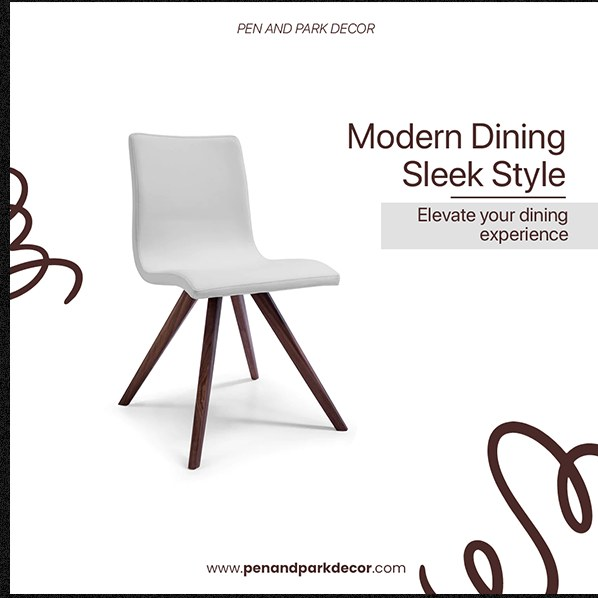
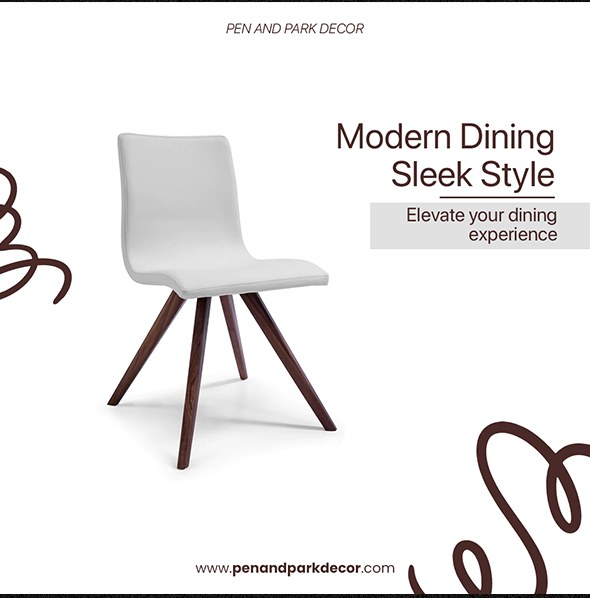
**Social Media Design — New Scroll-Driven Gallery — initial update** - The section now closely follows your reference video: as you scroll, a vertical list of project titles appears on the left, highlighting the current project in orange and sliding it right — a large, full-size image or video displ
Can you please test this preview and confirm if everything works smoothly? If any issues remain, I can continue with a deeper investigation and comprehensive testing.

Emergent-Commit-Key: 0c5b5b362e853085a8be8ca6203a84d60bfc02149cf97ac8073cc69e6c5fcb3d

diff --git a/frontend/src/components/Work.jsx b/frontend/src/components/Work.jsx
@@ -1,89 +1,136 @@
-import { useRef } from "react";
+import { useRef, useState } from "react";
 import { useNavigate } from "react-router-dom";
-import { motion, useScroll, useTransform } from "framer-motion";
-import { ArrowUpRight, Heart, MessageCircle, Send, Bookmark } from "lucide-react";
+import { motion, useScroll, useMotionValueEvent } from "framer-motion";
+import { ArrowUpRight } from "lucide-react";
 import { PROJECTS } from "../data/content";
-import { Reveal } from "./Reveal";
 
 const isVideo = (url) => url.endsWith(".mp4");
 
-const ProjectCard = ({ p, i }) => {
-  const ref = useRef(null);
-  const navigate = useNavigate();
-  const { scrollYProgress } = useScroll({ target: ref, offset: ["start end", "end start"] });
-  const y = useTransform(scrollYProgress, [0, 1], ["-7%", "7%"]);
-
-  return (
-    <motion.article
-      layout
-      initial={{ opacity: 0, y: 30 }}
-      animate={{ opacity: 1, y: 0 }}
-      exit={{ opacity: 0, scale: 0.96 }}
-      transition={{ duration: 0.5, ease: [0.16, 1, 0.3, 1], delay: i * 0.05 }}
-      className="group cursor-pointer"
-      data-testid={`project-card-${p.id}`}
-      data-cursor
-      onClick={() => navigate(`/work/${p.id}`)}
-    >
-      <div ref={ref} className="relative overflow-hidden aspect-square bg-paper2">
-        {isVideo(p.image) ? (
-          <motion.video
-            src={p.image}
-            poster={p.poster}
-            style={{ y }}
-            autoPlay
-            muted
-            loop
-            playsInline
-            className="w-full h-[116%] object-cover scale-105 transition-transform duration-700 ease-out group-hover:scale-110"
-          />
-        ) : (
-          <motion.img
-            src={p.image}
-            alt={p.title}
-            loading="lazy"
-            style={{ y }}
-            className="w-full h-[116%] object-cover scale-105 transition-transform duration-700 ease-out group-hover:scale-110"
-          />
-        )}
-        <div className="absolute inset-0 bg-[#2C180F]/0 group-hover:bg-[#2C180F]/35 transition-colors duration-500 flex items-center justify-center">
-          <span className="opacity-0 group-hover:opacity-100 translate-y-3 group-hover:translate-y-0 transition-all duration-500 bg-acid text-ink font-mono text-xs uppercase tracking-[0.2em] px-5 py-2.5 rounded-full inline-flex items-center gap-2">
-            View case <ArrowUpRight className="w-3.5 h-3.5" />
-          </span>
-        </div>
-        <span className="absolute top-4 left-4 font-mono text-[10px] uppercase tracking-[0.2em] bg-paper/90 backdrop-blur px-3 py-1.5 rounded-full">
-          {p.category}
-        </span>
-      </div>
-      <div className="mt-3 flex items-center justify-between text-ink" data-testid={`post-actions-${p.id}`}>
-        <div className="flex items-center gap-4">
-          <Heart className="w-5 h-5 transition-all duration-300 group-hover:fill-acid group-hover:text-acid group-hover:scale-110" />
-          <MessageCircle className="w-5 h-5 transition-transform duration-300 group-hover:scale-110" />
-          <Send className="w-5 h-5 transition-transform duration-300 group-hover:scale-110" />
-        </div>
-        <Bookmark className="w-5 h-5 transition-transform duration-300 group-hover:scale-110" />
-      </div>
-      <div className="mt-3 flex items-start justify-between gap-4">
-        <h3 className="font-display font-medium text-xl sm:text-2xl tracking-tight leading-tight">{p.title}</h3>
-        <span className="font-mono text-xs text-smoke mt-1.5 shrink-0">{p.year}</span>
-      </div>
-    </motion.article>
+const Media = ({ p, className }) =>
+  isVideo(p.image) ? (
+    <video src={p.image} poster={p.poster} autoPlay muted loop playsInline className={className} />
+  ) : (
+    <img src={p.image} alt={p.title} loading="lazy" className={className} />
   );
-};
 
 export default function Work() {
+  const targetRef = useRef(null);
+  const navigate = useNavigate();
+  const n = PROJECTS.length;
+  const [active, setActive] = useState(0);
+  const { scrollYProgress } = useScroll({ target: targetRef, offset: ["start start", "end end"] });
+
+  useMotionValueEvent(scrollYProgress, "change", (v) => {
+    const idx = Math.min(n - 1, Math.max(0, Math.floor(v * n)));
+    setActive((prev) => (prev === idx ? prev : idx));
+  });
+
+  const goTo = (i) => {
+    const el = targetRef.current;
+    if (!el) return;
+    const top = el.offsetTop + ((i + 0.55) / n) * el.offsetHeight - window.innerHeight / 2;
+    if (window.__lenis) window.__lenis.scrollTo(top, { duration: 1.2 });
+    else window.scrollTo({ top, behavior: "smooth" });
+  };
+
   return (
-    <section id="work" data-testid="work-section" className="max-w-[1700px] mx-auto px-4 sm:px-8 lg:px-16 py-20 sm:py-32">
-      <div className="mb-10 sm:mb-14">
-        <Reveal>
-          <h2 className="font-display font-medium uppercase tracking-tight text-3xl sm:text-5xl lg:text-6xl">Social Media Design</h2>
-        </Reveal>
+    <section id="work" data-testid="work-section">
+      {/* Desktop — scroll-driven sticky gallery */}
+      <div ref={targetRef} className="relative hidden lg:block" style={{ height: `${n * 70}vh` }}>
+        <div className="sticky top-0 h-screen overflow-hidden flex items-center">
+          {/* left — vertical title index */}
+          <div className="w-[30%] shrink-0 pl-16 flex flex-col justify-center h-full">
+            <span className="font-mono text-xs uppercase tracking-[0.25em] text-smoke" data-testid="work-label">
+              [ social media design ]
+            </span>
+            <div className="mt-8 flex flex-col gap-3.5">
+              {PROJECTS.map((proj, i) => (
+                <button
+                  key={proj.id}
+                  data-testid={`work-title-${proj.id}`}
+                  onClick={() => goTo(i)}
+                  className={`flex items-baseline gap-3 text-left transition-all duration-500 ${
+                    active === i ? "translate-x-3" : "opacity-35 hover:opacity-70"
+                  }`}
+                >
+                  <span className={`font-mono text-[10px] tracking-[0.2em] ${active === i ? "text-acid" : "text-smoke"}`}>
+                    0{i + 1}
+                  </span>
+                  <span
+                    className={`font-display font-medium uppercase tracking-tight text-xl xl:text-2xl transition-colors duration-300 ${
+                      active === i ? "text-acid" : "text-ink"
+                    }`}
+                  >
+                    {proj.title}
+                  </span>
+                </button>
+              ))}
+            </div>
+            <span className="mt-10 font-mono text-xs tracking-[0.25em] text-smoke" data-testid="work-counter">
+              {String(active + 1).padStart(2, "0")} — {String(n).padStart(2, "0")}
+            </span>
+          </div>
+
+          {/* right — media stage */}
+          <div className="relative flex-1 h-[76vh] mr-16">
+            {PROJECTS.map((proj, i) => (
+              <motion.div
+                key={proj.id}
+                data-testid={`work-media-${proj.id}`}
+                className="absolute inset-0"
+                initial={false}
+                animate={{ opacity: active === i ? 1 : 0, scale: active === i ? 1 : 0.97, y: active === i ? 0 : 24 }}
+                transition={{ duration: 0.55, ease: [0.16, 1, 0.3, 1] }}
+                style={{ pointerEvents: active === i ? "auto" : "none" }}
+              >
+                <div
+                  className="group relative w-full h-full overflow-hidden rounded-2xl cursor-pointer"
+                  data-cursor
+                  onClick={() => navigate(`/work/${proj.id}`)}
+                >
+                  <Media p={proj} className="w-full h-full object-cover transition-transform duration-700 group-hover:scale-105" />
+                  <div className="absolute inset-0 bg-[#2C180F]/0 group-hover:bg-[#2C180F]/30 transition-colors duration-500 flex items-center justify-center">
+                    <span className="opacity-0 group-hover:opacity-100 translate-y-3 group-hover:translate-y-0 transition-all duration-500 bg-acid text-ink font-mono text-xs uppercase tracking-[0.2em] px-5 py-2.5 rounded-full inline-flex items-center gap-2">
+                      View case <ArrowUpRight className="w-3.5 h-3.5" />
+                    </span>
+                  </div>
+                  <span className="absolute bottom-4 left-4 font-mono text-[10px] uppercase tracking-[0.2em] bg-paper/85 backdrop-blur px-3 py-1.5 rounded-full">
+                    {proj.category}
+                  </span>
+                  <span className="absolute bottom-4 right-4 font-mono text-[10px] uppercase tracking-[0.2em] bg-paper/85 backdrop-blur px-3 py-1.5 rounded-full">
+                    ©{proj.year}
+                  </span>
+                </div>
+              </motion.div>
+            ))}
+          </div>
+        </div>
       </div>
 
-      <div className="grid sm:grid-cols-2 lg:grid-cols-3 gap-6 sm:gap-8" data-testid="work-grid">
-        {PROJECTS.map((p, i) => (
-          <ProjectCard key={p.id} p={p} i={i} />
-        ))}
+      {/* Mobile — stacked large posts */}
+      <div className="lg:hidden px-4 sm:px-8 py-20">
+        <span className="font-mono text-xs uppercase tracking-[0.25em] text-smoke">[ social media design ]</span>
+        <div className="mt-8 flex flex-col gap-10">
+          {PROJECTS.map((proj) => (
+            <div
+              key={proj.id}
+              data-testid={`work-card-${proj.id}`}
+              className="cursor-pointer"
+              onClick={() => navigate(`/work/${proj.id}`)}
+            >
+              <div className="relative overflow-hidden rounded-xl aspect-square bg-paper2">
+                <Media p={proj} className="w-full h-full object-cover" />
+                <span className="absolute bottom-3 left-3 font-mono text-[10px] uppercase tracking-[0.2em] bg-paper/85 backdrop-blur px-3 py-1.5 rounded-full">
+                  {proj.category}
+                </span>
+              </div>
+              <div className="mt-3 flex items-baseline justify-between">
+                <h3 className="font-display font-medium uppercase tracking-tight text-xl">{proj.title}</h3>
+                <span className="font-mono text-xs text-smoke">{proj.year}</span>
+              </div>
+            </div>
+          ))}
+        </div>
       </div>
     </section>
   );

diff --git a/memory/PRD.md b/memory/PRD.md
@@ -75,6 +75,11 @@ Goal: recreate the Studio Loop-style portfolio structure and vibe as an original
 - Reference palette applied: cream #F7F6F0 paper, chocolate #2C180F ink, orange-red accent; Inter Tight + Instrument Serif typography; SVG logos recolored.
 - Verified via testing agent (iteration_1): body bg rgb(247,246,240), text rgb(44,24,15), nav/sections render correctly.
 
+## Work section → scroll-driven gallery (2026-07-23, user-directed, replaces IG grid)
+- IG-post grid replaced per user feedback with reference-video style: desktop = sticky full-screen scroll gallery (70vh per project) — left vertical title index (active title shifts right + turns vermilion, counter "0X — 09", titles clickable to jump via Lenis), right large media stage (76vh, rounded-2xl) with crossfade/scale/rise transitions between projects, category + year chips, hover "View case" pill → case page. Mobile = stacked large square posts. Videos supported in the stage.
+- Also re-cropped penandpark images to exact white card bounds (removed dark edge slivers).
+- Verified via screenshots: two scroll segments (active title + media switch correctly), mobile stack, clean card edges.
+
 ## Nav label change (2026-07-23, user-directed)
 - Header nav "Studio" renamed to "About" (still anchors to #studio section). Verified via screenshot + nav-link-about testid.
 
